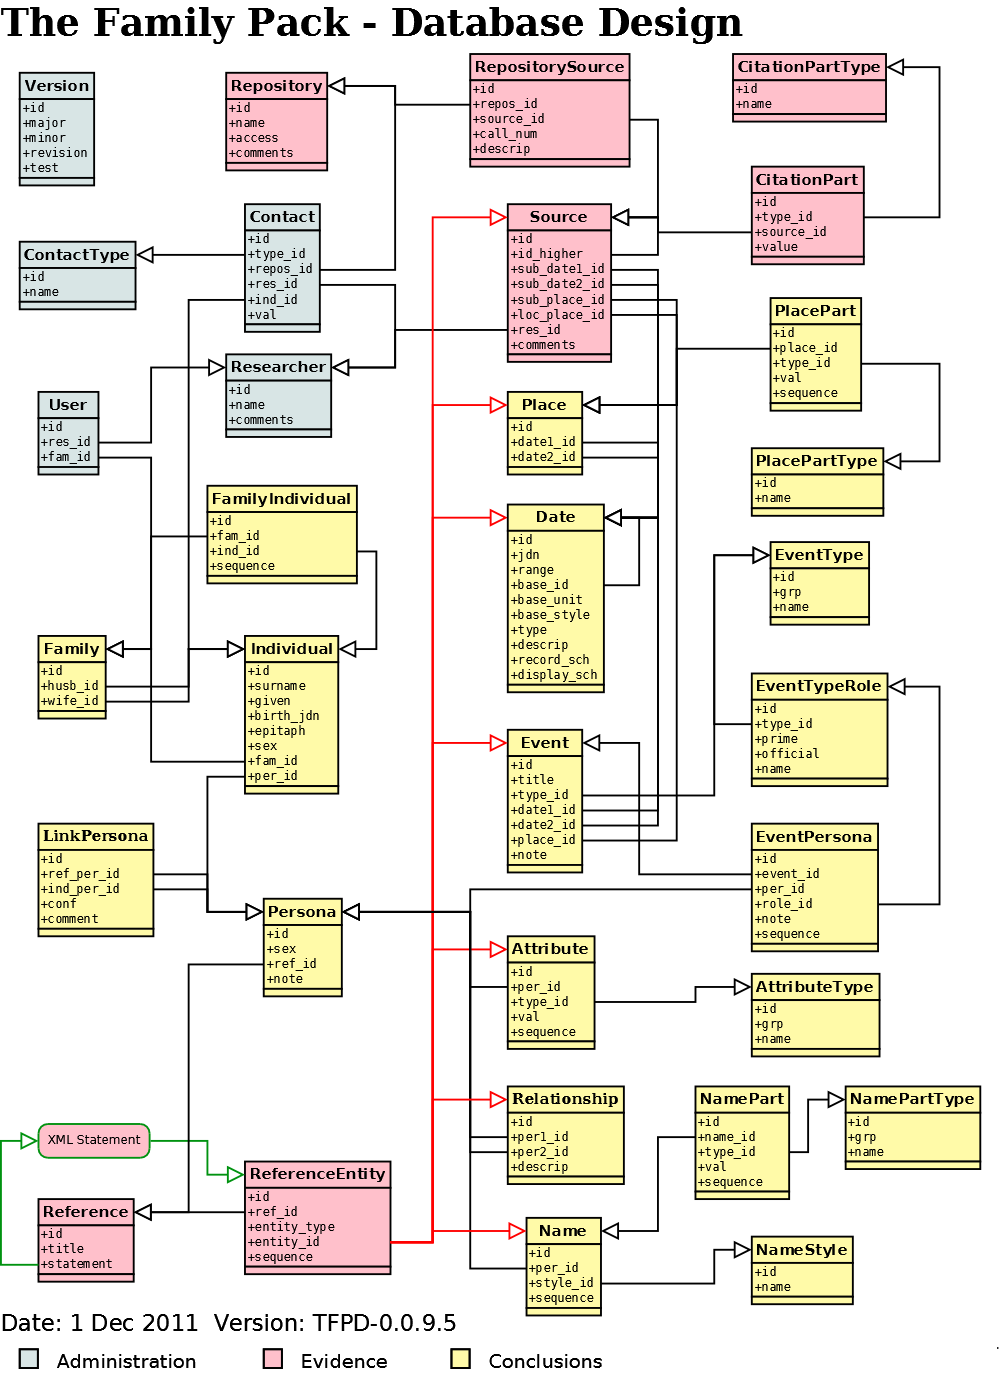
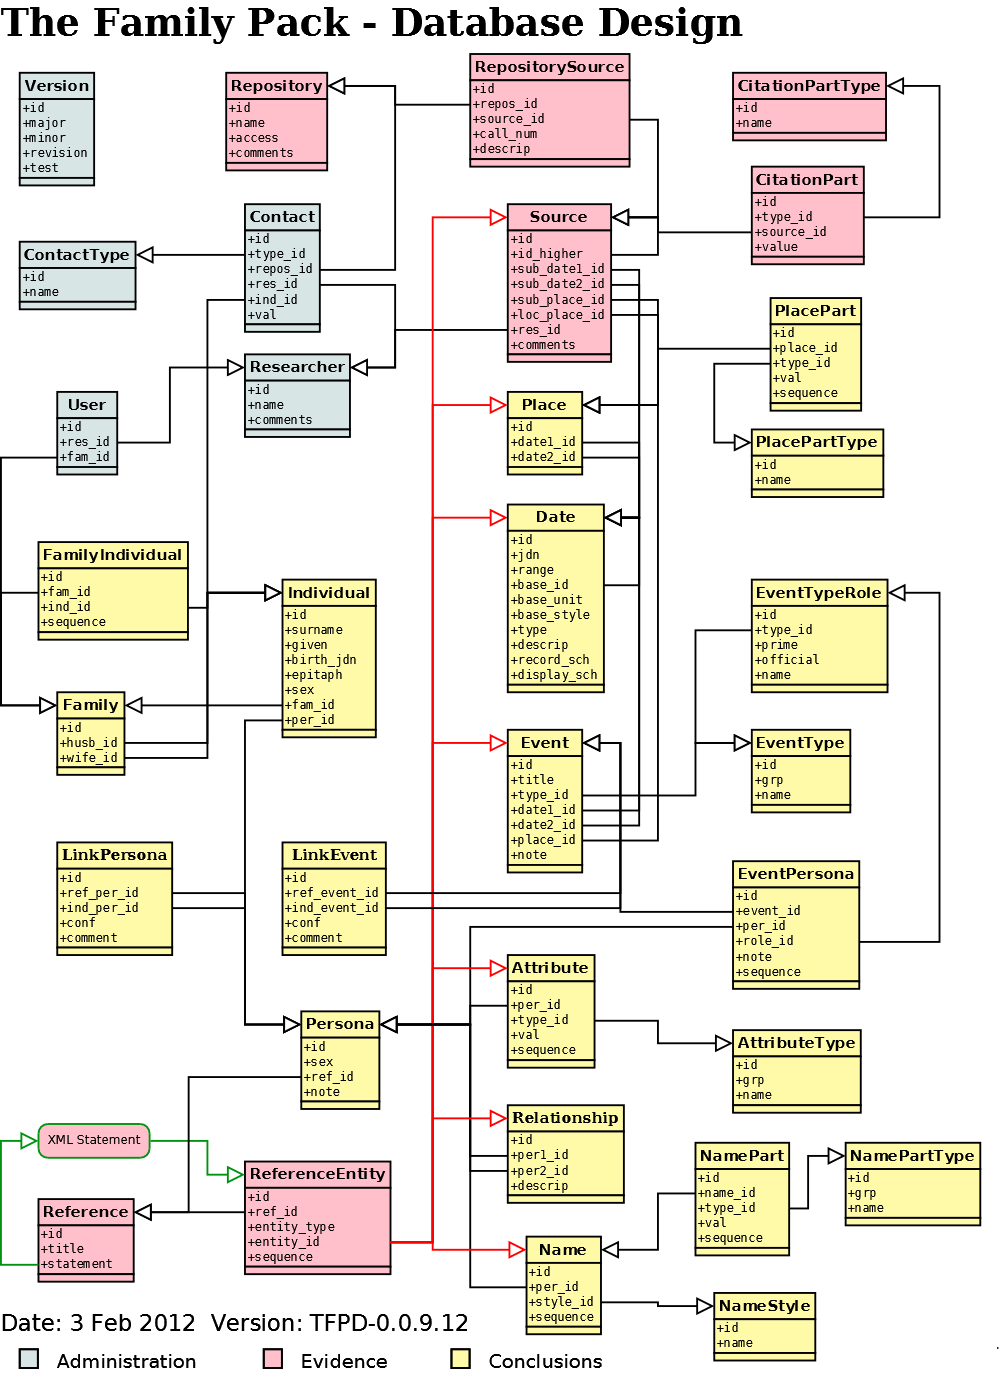
Update Database to version 0.0.9.12 by adding conf (confidence) column to LinkEvent table.
git-svn-id: https://svn.code.sf.net/p/thefamilypack/code/tfp/trunk@211 0b5b8454-fdc9-41d1-a9ee-242ce37e0c65

diff --git a/src/rec/recLink.cpp b/src/rec/recLink.cpp
@@ -45,18 +45,20 @@
 
 recLinkEvent::recLinkEvent( const recLinkEvent& d )
 {
-    f_id          = d.f_id;
-    f_ref_event_id  = d.f_ref_event_id;
-    f_ind_event_id  = d.f_ind_event_id;
-    f_comment     = d.f_comment;
+    f_id           = d.f_id;
+    f_ref_event_id = d.f_ref_event_id;
+    f_ind_event_id = d.f_ind_event_id;
+    f_conf         = d.f_conf;
+    f_comment      = d.f_comment;
 }
 
 void recLinkEvent::Clear()
 {
-    f_id          = 0;
-    f_ref_event_id  = 0;
-    f_ind_event_id  = 0;
-    f_comment     = wxEmptyString;
+    f_id           = 0;
+    f_ref_event_id = 0;
+    f_ind_event_id = 0;
+    f_conf         = 0;
+    f_comment      = wxEmptyString;
 }
 
 void recLinkEvent::Save()
@@ -69,9 +71,9 @@ void recLinkEvent::Save()
         // Add new record
         sql.Format(
             "INSERT INTO LinkEvent "
-            "(ref_event_id, ind_event_id, comment) "
-            "VALUES ("ID", "ID", '%q');",
-            f_ref_event_id, f_ind_event_id, UTF8_(f_comment)
+            "(ref_event_id, ind_event_id, conf, comment) "
+            "VALUES ("ID", "ID", %f, '%q');",
+            f_ref_event_id, f_ind_event_id, f_conf, UTF8_(f_comment)
         );
         s_db->ExecuteUpdate( sql );
         f_id = GET_ID( s_db->GetLastRowId() );
@@ -82,17 +84,17 @@ void recLinkEvent::Save()
             // Add new record
             sql.Format(
                 "INSERT INTO LinkEvent "
-                "(id, ref_event_id, ind_event_id, comment) "
-                "VALUES ("ID", "ID", "ID", '%q');",
-                f_id, f_ref_event_id, f_ind_event_id, f_comment
+                "(id, ref_event_id, ind_event_id, conf, comment) "
+                "VALUES ("ID", "ID", "ID", %f, '%q');",
+                f_id, f_ref_event_id, f_ind_event_id, f_conf, f_comment
             );
         } else {
             // Update existing record
             sql.Format(
                 "UPDATE LinkEvent SET ref_event_id="ID", ind_event_id="ID", "
-                "comment='%q' "
+                "conf=%f, comment='%q' "
                 "WHERE id="ID";",
-                f_ref_event_id, f_ind_event_id,
+                f_ref_event_id, f_ind_event_id, f_conf,
                 UTF8_(f_comment), f_id
             );
         }
@@ -111,7 +113,7 @@ bool recLinkEvent::Read()
     }
 
     sql.Format(
-        "SELECT ref_event_id, ind_event_id, comment "
+        "SELECT ref_event_id, ind_event_id, conf, comment "
         "FROM LinkEvent WHERE id="ID";",
         f_id
     );
@@ -123,9 +125,10 @@ bool recLinkEvent::Read()
         return false;
     }
     result.SetRow( 0 );
-    f_ref_event_id  = GET_ID( result.GetInt64( 0 ) );
-    f_ind_event_id  = GET_ID( result.GetInt64( 1 ) );
-    f_comment     = result.GetAsString( 2 );
+    f_ref_event_id = GET_ID( result.GetInt64( 0 ) );
+    f_ind_event_id = GET_ID( result.GetInt64( 1 ) );
+    f_conf         = result.GetDouble( 2 );
+    f_comment      = result.GetAsString( 3 );
     return true;
 }
 
@@ -140,7 +143,7 @@ bool recLinkEvent::Find()
     if( f_ind_event_id == 0 ) return false; // Only find single record
 
     sql.Format(
-        "SELECT id, comment FROM LinkEvent "
+        "SELECT id, conf, comment FROM LinkEvent "
         "WHERE ref_event_id="ID" AND ind_event_id="ID";",
         f_ref_event_id, f_ind_event_id
     );
@@ -148,8 +151,9 @@ bool recLinkEvent::Find()
 
     if( result.GetRowCount() != 1 ) return false;
     result.SetRow( 0 );
-    f_id   = GET_ID( result.GetInt64( 0 ) );
-    f_comment = result.GetAsString( 1 );
+    f_id      = GET_ID( result.GetInt64( 0 ) );
+    f_conf    = result.GetDouble( 1 );
+    f_comment = result.GetAsString( 2 );
     return true;
 }
 

diff --git a/src/rec/recVersion.cpp b/src/rec/recVersion.cpp
@@ -46,8 +46,8 @@
 const int recVerMajor    = 0;
 const int recVerMinor    = 0;
 const int recVerRev      = 9;
-const int recVerTest     = 11;
-const wxStringCharType* recVerStr = wxS("0.0.9.11");
+const int recVerTest     = 12;
+const wxStringCharType* recVerStr = wxS("0.0.9.12");
 
 
 recVersion::recVersion( const recVersion& v )
@@ -475,6 +475,30 @@ static void UpgradeTest0_0_9_10to0_0_9_11()
     recDb::Commit();
 }
 
+static void UpgradeTest0_0_9_11to0_0_9_12()
+{
+    char* query =
+        "ALTER TABLE LinkEvent RENAME TO OldLinkEvent;\n"
+        "CREATE TABLE LinkEvent (\n"
+        "  id INTEGER PRIMARY KEY,\n"
+        "  ref_event_id INTEGER NOT NULL,\n"
+        "  ind_event_id INTEGER NOT NULL REFERENCES Event(id),\n"
+        "  conf FLOAT NOT NULL,\n"
+        "  comment TEXT\n"
+        ");\n"
+        "INSERT INTO LinkEvent"
+        " (id, ref_event_id, ind_event_id, conf, comment)"
+        " SELECT id, ref_event_id, ind_event_id, 0.999, comment"
+        " FROM OldLinkEvent;\n"
+        "DROP TABLE OldLinkEvent;\n"
+    ;
+    recDb::Begin();
+    recDb::GetDb()->ExecuteUpdate( query );
+    recVersion::Set( 0, 0, 9, 12 );
+    recDb::Commit();
+}
+
+
 static void UpgradeRev0_0_9toCurrent( int test )
 {
     switch( test )
@@ -501,6 +525,8 @@ static void UpgradeRev0_0_9toCurrent( int test )
         UpgradeTest0_0_9_9to0_0_9_10();
     case 10:
         UpgradeTest0_0_9_10to0_0_9_11();
+    case 11:
+        UpgradeTest0_0_9_11to0_0_9_12();
     }
 }
 

diff --git a/include/rec/recLink.h b/include/rec/recLink.h
@@ -41,6 +41,7 @@ class recLinkEvent : public recDb
 public:
     idt      f_ref_event_id;
     idt      f_ind_event_id;
+    double   f_conf;
     wxString f_comment;
 
     recLinkEvent() {}
@@ -60,9 +61,10 @@ public:
 inline bool recEquivalent( const recLinkEvent& d1, const recLinkEvent& d2 )
 {
     return
-        d1.f_ref_event_id  == d2.f_ref_event_id &&
-        d1.f_ind_event_id  == d2.f_ind_event_id &&
-        d1.f_comment     == d2.f_comment;
+        d1.f_ref_event_id == d2.f_ref_event_id &&
+        d1.f_ind_event_id == d2.f_ind_event_id &&
+        d1.f_conf         == d2.f_conf         &&
+        d1.f_comment      == d2.f_comment;
 }
 
 inline bool operator==( const recLinkEvent& d1, const recLinkEvent& d2 )

diff --git a/include/rec/recEvent.h b/include/rec/recEvent.h
@@ -153,7 +153,7 @@ public:
         ET_Will         = -14,
         ET_RegBirth     = -15,
         ET_RegDeath     = -16,
-        ET_Resisence    = -17,
+        ET_Residence    = -17,
         ET_MAX          = 18     // Size of list
     };
     enum SelectFilter {
